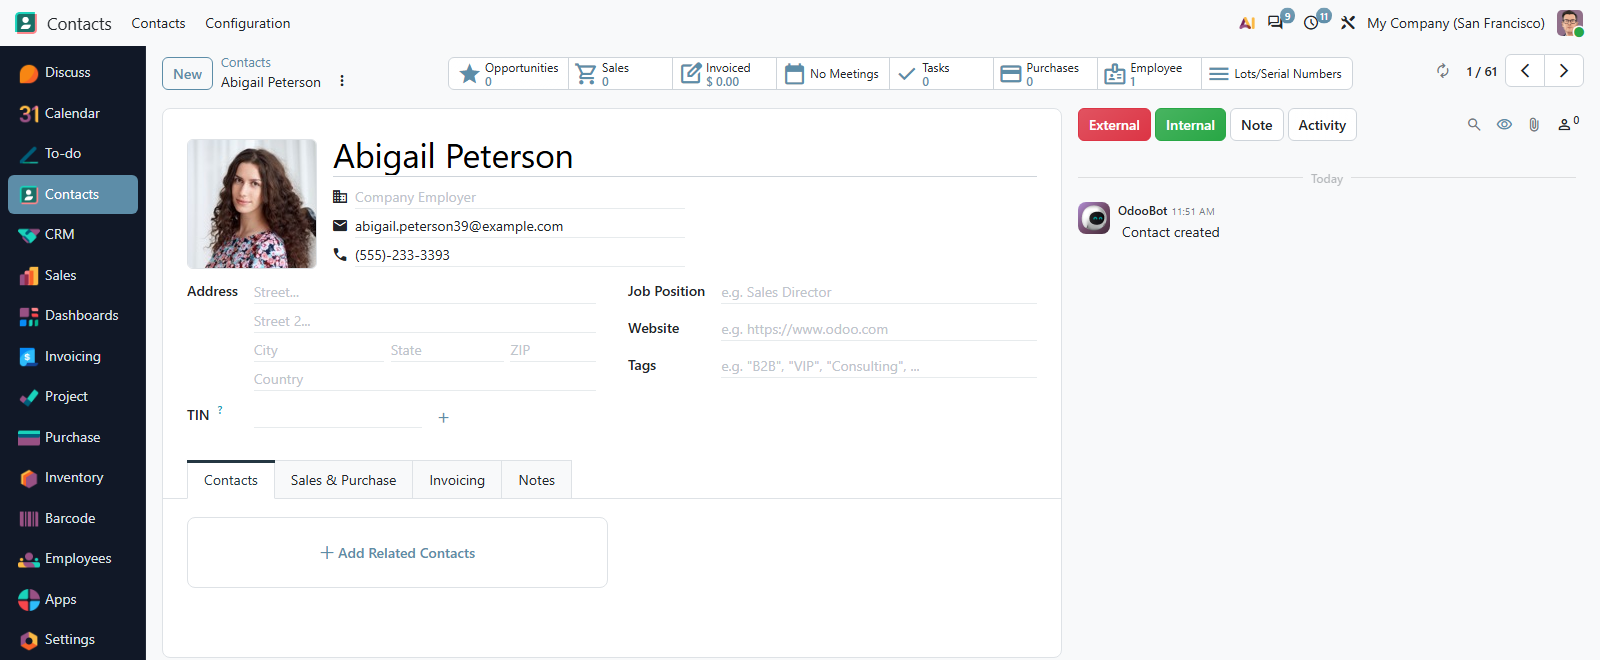
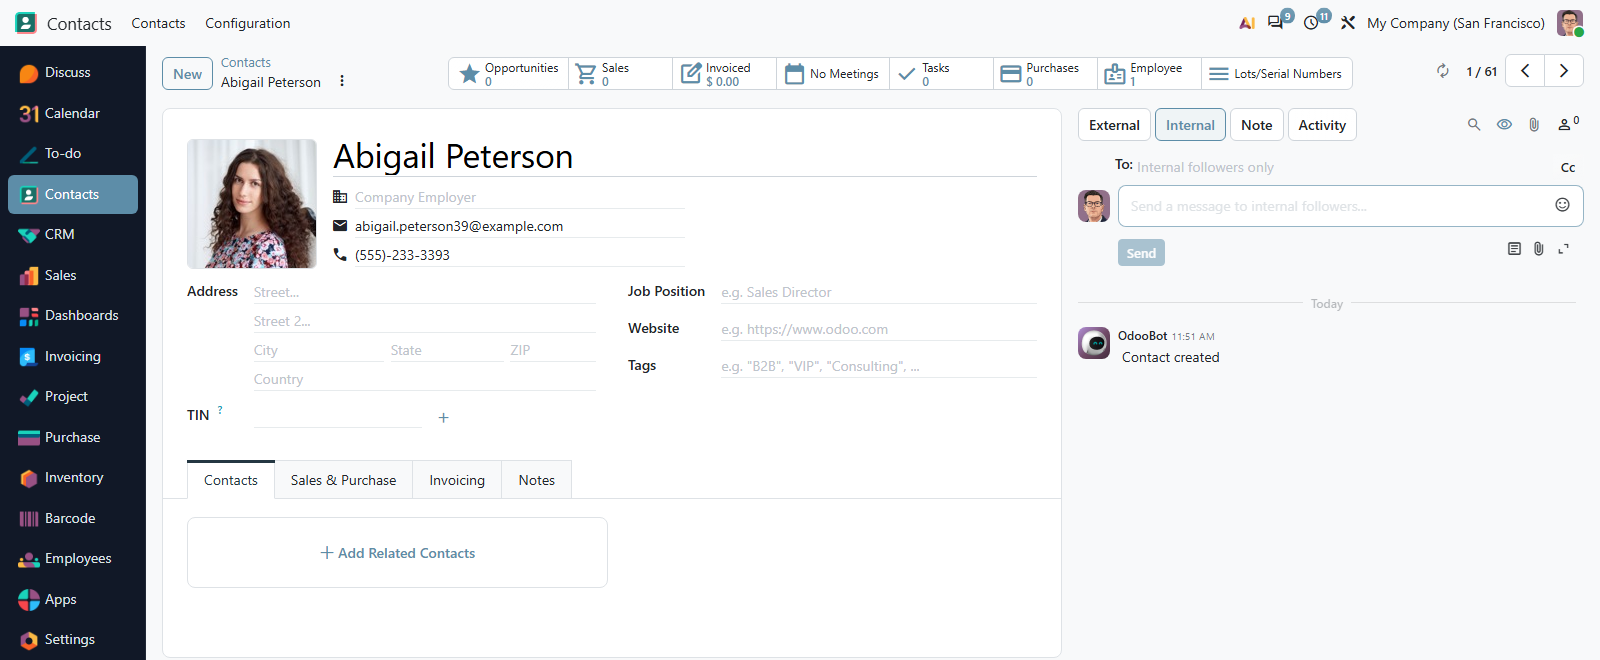
Update muk_web_enterprise_theme (f21b8820)

diff --git a/muk_web_enterprise_theme/static/description/index.html b/muk_web_enterprise_theme/static/description/index.html
@@ -79,8 +79,8 @@
 					</div>
 					<div class="col-md-6 col-12">
 						<i class="fa fa-comments oi" data-icon="forum" aria-hidden="true" style="font-size: 22px; color: #33627E;"></i>
-						<div style="font-size: 17px; font-weight: 600; line-height: 1.3; color: #13181C; margin: 9px 0;">Chatter beside the record</div>
-						<p style="margin: 0; font-size: 14px; line-height: 1.6; font-weight: 400; text-align: left; color: #3C464E;">The history moves to the side, so the form keeps its full width. Each user chooses where it sits.</p>
+						<div style="font-size: 17px; font-weight: 600; line-height: 1.3; color: #13181C; margin: 9px 0;">Internal messages in the chatter</div>
+						<p style="margin: 0; font-size: 14px; line-height: 1.6; font-weight: 400; text-align: left; color: #3C464E;">A fourth kind of message, delivered only to the followers who have a user account, with recipients and a Cc of its own.</p>
 					</div>
 					<div class="col-md-6 col-12">
 						<i class="fa fa-expand oi" data-icon="fullscreen" aria-hidden="true" style="font-size: 22px; color: #33627E;"></i>
@@ -131,10 +131,10 @@
 <section style="width: 98vw; margin-left: calc(50% - 49vw); background-color: #FFFFFF; border-top: 1px solid #E3E0DA; border-bottom: 1px solid #E3E0DA; padding: 56px 0;">
 	<div class="px-4 px-md-5" style="max-width: 1288px; margin: 0 auto;">
 		<div style="border: 1px solid #CFCBC3; border-radius: 8px; background-color: #FFFFFF;">
-			<div style="background-color: #F2F0EC; border-bottom: 1px solid #E3E0DA; border-radius: 7px 7px 0 0; padding: 10px 16px; font-family: ui-monospace, SFMono-Regular, Menlo, Consolas, monospace; font-size: 12px; color: #5C666F;">Contacts &nbsp;&rsaquo;&nbsp; LightsUp</div>
-			<img src="screenshot_chatter.png" alt="A contact form with the chatter beside the record instead of below it" style="display: block; width: 100%; height: auto; max-width: none; border-radius: 0 0 7px 7px;">
+			<div style="background-color: #F2F0EC; border-bottom: 1px solid #E3E0DA; border-radius: 7px 7px 0 0; padding: 10px 16px; font-family: ui-monospace, SFMono-Regular, Menlo, Consolas, monospace; font-size: 12px; color: #5C666F;">Contacts &nbsp;&rsaquo;&nbsp; Abigail Peterson</div>
+			<img src="screenshot_chatter.png" alt="The chatter composing an internal message, addressed to internal followers only" style="display: block; width: 100%; height: auto; max-width: none; border-radius: 0 0 7px 7px;">
 		</div>
-		<div style="padding-top: 12px; font-size: 13px; line-height: 1.5; color: #5C666F;">The chatter beside the record, so the form keeps its full width.</div>
+		<div style="padding-top: 12px; font-size: 13px; line-height: 1.5; color: #5C666F;">External, internal, note or activity. An internal message goes to the followers with a user account, and nobody else.</div>
 	</div>
 </section>
 

diff --git a/muk_web_enterprise_theme/__manifest__.py b/muk_web_enterprise_theme/__manifest__.py
@@ -5,7 +5,7 @@
         This module offers a mobile compatible design for Odoo Enterprise.
         Furthermore it allows the user to define some design preferences.
     """,
-    'version': '20.0.1.4.14',
+    'version': '20.0.1.4.15',
     'category': 'Themes/Backend',
     'license': 'LGPL-3',
     'author': 'MuK IT',
